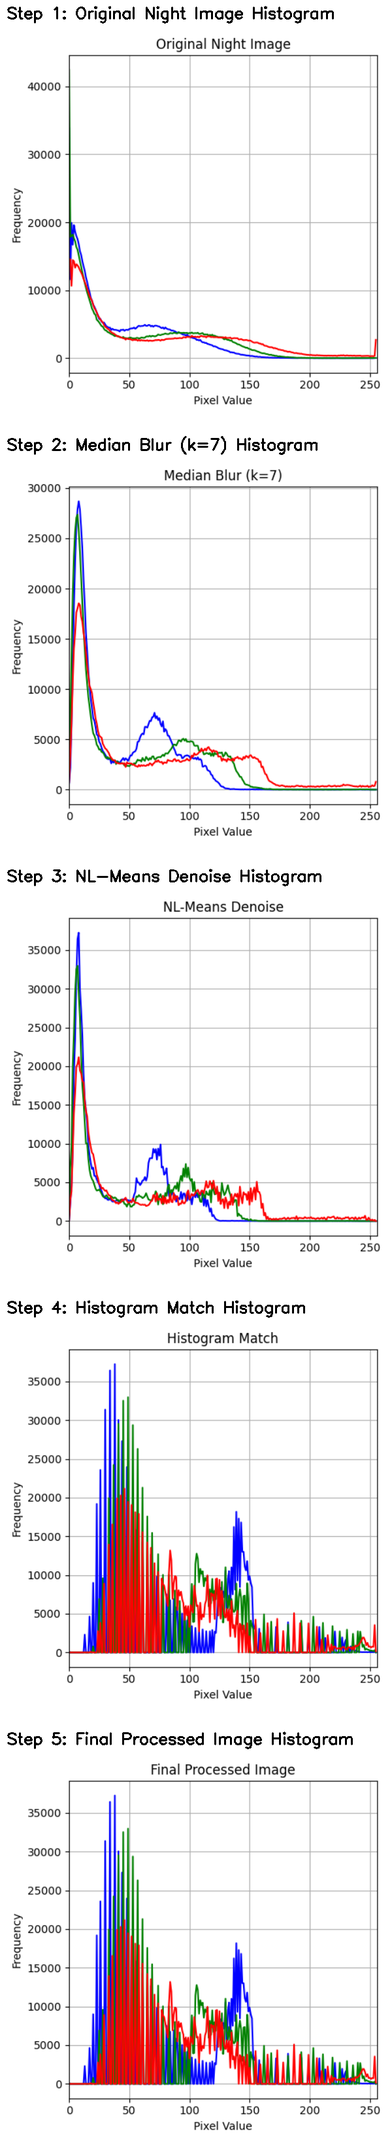
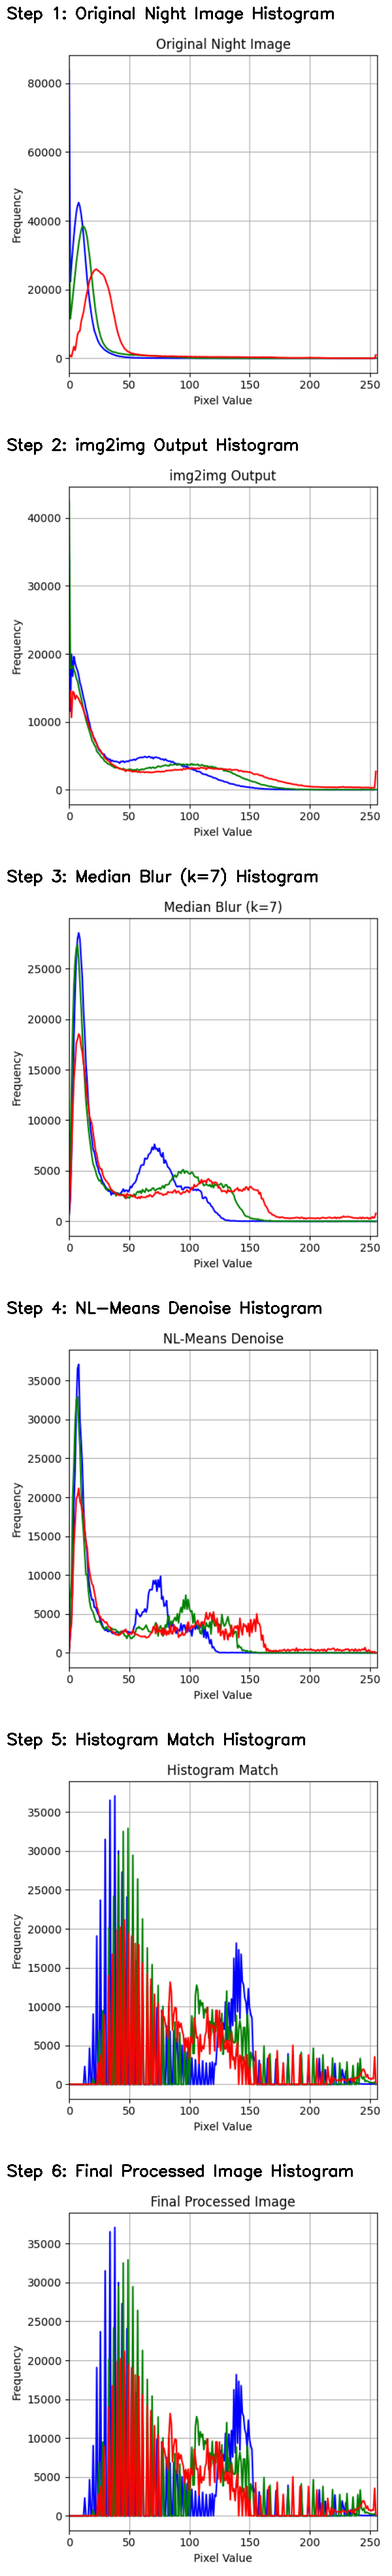
updated into 1 file and full visualization

diff --git a/img2img-and-classical.py b/img2img-and-classical.py
@@ -1,15 +1,55 @@
 import argparse
 import os
+import subprocess
+import sys
 
 import cv2
 import matplotlib.pyplot as plt
 import numpy as np
 from matplotlib.backends.backend_agg import FigureCanvasAgg as FigureCanvas
 
+# Hardcoded configuration
+MODEL_NAME = "night_to_day"
+INFERENCE_OUTPUT_DIR = "outputs/inference"
+RESULTS_FOLDER = "results"
+USE_FP16 = False
+
 CANVAS_SIZE = 500
 HISTOGRAM_SIZE = 600
-
 STEP_MARGIN = 20
+
+
+# ── img2img ──────────────────────────────────────────────────────────────────
+
+
+def run_inference(input_image):
+    inference_script = os.path.join(
+        os.path.dirname(__file__),
+        "src",
+        "img2img-turbo",
+        "src",
+        "inference_unpaired.py",
+    )
+    cmd = [
+        sys.executable,
+        inference_script,
+        "--model_name",
+        MODEL_NAME,
+        "--input_image",
+        input_image,
+        "--output_dir",
+        INFERENCE_OUTPUT_DIR,
+    ]
+    if USE_FP16:
+        cmd.append("--use_fp16")
+
+    print(f"Running img2img inference: {MODEL_NAME}")
+    subprocess.run(cmd, check=True)
+    bname = os.path.basename(input_image)
+    return os.path.join(INFERENCE_OUTPUT_DIR, bname)
+
+
+# ── Image processing pipeline ────────────────────────────────────────────────
 
 
 def visualize_pipeline(steps):
@@ -19,7 +59,6 @@ def visualize_pipeline(steps):
     canvas_width = CANVAS_SIZE
     pipeline_canvas = np.ones((canvas_height, canvas_width, 3), dtype=np.uint8) * 255
     for idx, (title, img) in enumerate(steps):
-        # Create title canvas
         title_canvas = np.ones((title_height, CANVAS_SIZE, 3), dtype=np.uint8) * 255
         cv2.putText(
             title_canvas,
@@ -40,7 +79,6 @@ def visualize_pipeline(steps):
 
 
 def plot_histogram_image(image, title):
-    # image: BGR uint8
     fig, ax = plt.subplots(figsize=(5, 5), dpi=100)
     colors = ("b", "g", "r")
     for i, color in enumerate(colors):
@@ -71,7 +109,6 @@ def visualize_histogram_pipeline(steps):
     canvas_width = HISTOGRAM_SIZE
     pipeline_canvas = np.ones((canvas_height, canvas_width, 3), dtype=np.uint8) * 255
     for idx, (title, img) in enumerate(steps):
-        # Create title canvas
         title_canvas = np.ones((title_height, HISTOGRAM_SIZE, 3), dtype=np.uint8) * 255
         cv2.putText(
             title_canvas,
@@ -92,8 +129,16 @@ def visualize_histogram_pipeline(steps):
     return pipeline_canvas
 
 
-def main(day_image_path, night_image_path, results_folder):
-    # Load the images
+def mse_between_images(img1, img2):
+    mse_channels = np.mean(
+        (img1.astype("float") - img2.astype("float")) ** 2, axis=(0, 1)
+    )
+    mse_r, mse_g, mse_b = mse_channels
+    mse_overall = (mse_r + mse_g + mse_b) / 3
+    return mse_r, mse_g, mse_b, mse_overall
+
+
+def run_pipeline(day_image_path, night_image_path, original_night_image_path):
     day_image = cv2.imread(day_image_path)
     if day_image is None:
         raise FileNotFoundError(f"Image not found at {os.path.abspath(day_image_path)}")
@@ -102,21 +147,26 @@ def main(day_image_path, night_image_path, results_folder):
         raise FileNotFoundError(
             f"Image not found at {os.path.abspath(night_image_path)}"
         )
+    original_night_image = cv2.imread(original_night_image_path)
+    if original_night_image is None:
+        raise FileNotFoundError(
+            f"Image not found at {os.path.abspath(original_night_image_path)}"
+        )
 
-    # Resize images to the same size if needed
-    # Professor said in class they should be same size, they are not right now so we will need to reupload data later
-    if day_image.shape != night_image.shape:
+    shapes = [day_image.shape, night_image.shape, original_night_image.shape]
+    if len(set(shapes)) > 1:
         print("Resizing images to the same dimensions...")
         target_size = (
-            min(day_image.shape[1], night_image.shape[1]),
-            min(day_image.shape[0], night_image.shape[0]),
+            min(s[1] for s in shapes),
+            min(s[0] for s in shapes),
         )
         day_image = cv2.resize(day_image, target_size)
         night_image = cv2.resize(night_image, target_size)
+        original_night_image = cv2.resize(original_night_image, target_size)
 
-    # Store pipeline steps for visualization
     pipeline_steps = []
-    pipeline_steps.append(("Original Night Image", night_image))
+    pipeline_steps.append(("Original Night Image", original_night_image))
+    pipeline_steps.append(("img2img Output", night_image))
 
     def match_histogram(source, reference):
         matched = np.zeros_like(source)
@@ -149,8 +199,8 @@ def main(day_image_path, night_image_path, results_folder):
     current_image = cv2.fastNlMeansDenoisingColored(
         current_image,
         None,
-        h=20,  # luminance filter strength (high — dominant noise source)
-        hColor=5,  # color channel filter strength (low — chroma is already clean)
+        h=20,
+        hColor=5,
         templateWindowSize=7,
         searchWindowSize=21,
     )
@@ -162,33 +212,25 @@ def main(day_image_path, night_image_path, results_folder):
 
     pipeline_steps.append(("Final Processed Image", current_image))
 
-    # Save final image
-    os.makedirs(results_folder, exist_ok=True)
-    cv2.imwrite(f"{results_folder}/final_processed_image.png", current_image)
+    os.makedirs(RESULTS_FOLDER, exist_ok=True)
+    cv2.imwrite(f"{RESULTS_FOLDER}/final_processed_image.png", current_image)
 
-    # Visualize pipeline (images)
     pipeline_canvas = visualize_pipeline(pipeline_steps)
-    os.makedirs(results_folder, exist_ok=True)
-    cv2.imwrite(f"{results_folder}/pipeline_overview.png", pipeline_canvas)
+    cv2.imwrite(f"{RESULTS_FOLDER}/pipeline_overview.png", pipeline_canvas)
 
-    # Visualize pipeline (histograms)
     pipeline_hist_canvas = visualize_histogram_pipeline(pipeline_steps)
     cv2.imwrite(
-        f"{results_folder}/pipeline_histogram_overview.png", pipeline_hist_canvas
+        f"{RESULTS_FOLDER}/pipeline_histogram_overview.png", pipeline_hist_canvas
     )
 
-    # Results
-    # Worst-case Channel-wise MSE comparison between day and original night image
     mse_r_worst, mse_g_worst, mse_b_worst, mse_overall_worst = mse_between_images(
-        day_image, night_image
+        day_image, original_night_image
     )
-
     print(
         f"Worst-case Channel-wise MSE: R={mse_r_worst:.2f}, G={mse_g_worst:.2f}, B={mse_b_worst:.2f}"
     )
     print(f"Worst-case averaged MSE (overall): {mse_overall_worst:.2f}")
 
-    # Channel-wise MSE comparison between day and final processed night image
     mse_r_final, mse_g_final, mse_b_final, mse_overall_final = mse_between_images(
         day_image, current_image
     )
@@ -198,35 +240,33 @@ def main(day_image_path, night_image_path, results_folder):
     print(f"Final averaged MSE (overall): {mse_overall_final:.2f}")
 
 
-def mse_between_images(img1, img2):
-    mse_channels = np.mean(
-        (img1.astype("float") - img2.astype("float")) ** 2, axis=(0, 1)
-    )
-    mse_r, mse_g, mse_b = mse_channels
-    mse_overall = (mse_r + mse_g + mse_b) / 3
-    # print(f"Channel-wise MSE: R={mse_r:.2f}, G={mse_g:.2f}, B={mse_b:.2f}")
-    return mse_r, mse_g, mse_b, mse_overall
-
+# ── Entry point ───────────────────────────────────────────────────────────────
 
 if __name__ == "__main__":
-    parser = argparse.ArgumentParser(description="Image Processing Pipeline")
-    parser.add_argument(
-        "--input_day_image",
-        type=str,
-        default="data/day.jpg",
-        help="Path to the day input image",
-    )
+    parser = argparse.ArgumentParser(description="Night-to-Day full pipeline")
     parser.add_argument(
         "--input_night_image",
         type=str,
         default="data/night.jpg",
-        help="Path to the night input image",
+        help="Path to the input night image",
     )
     parser.add_argument(
-        "--results_folder",
+        "--input_day_image",
         type=str,
-        default="results",
-        help="Path to save results images, plots, or statistics",
+        default="data/day.jpg",
+        help="Path to the ground truth day image",
     )
     args = parser.parse_args()
-    main(args.input_day_image, args.input_night_image, args.results_folder)
+
+    # Step 1: Run img2img-turbo inference
+    img2img_output = run_inference(args.input_night_image)
+    print(f"Inference output saved to: {img2img_output}")
+
+    # Step 2: Run classical image processing pipeline on the inference output
+    print("Running image processing pipeline...")
+    run_pipeline(
+        day_image_path=args.input_day_image,
+        night_image_path=img2img_output,
+        original_night_image_path=args.input_night_image,
+    )
+    print(f"Final results saved to: {RESULTS_FOLDER}")
